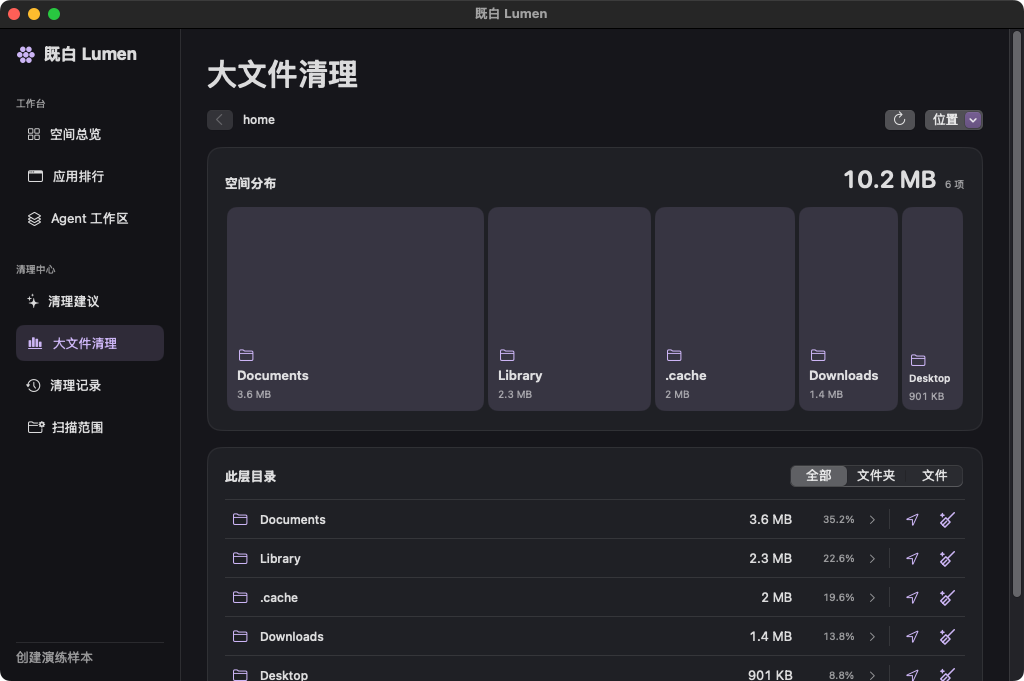
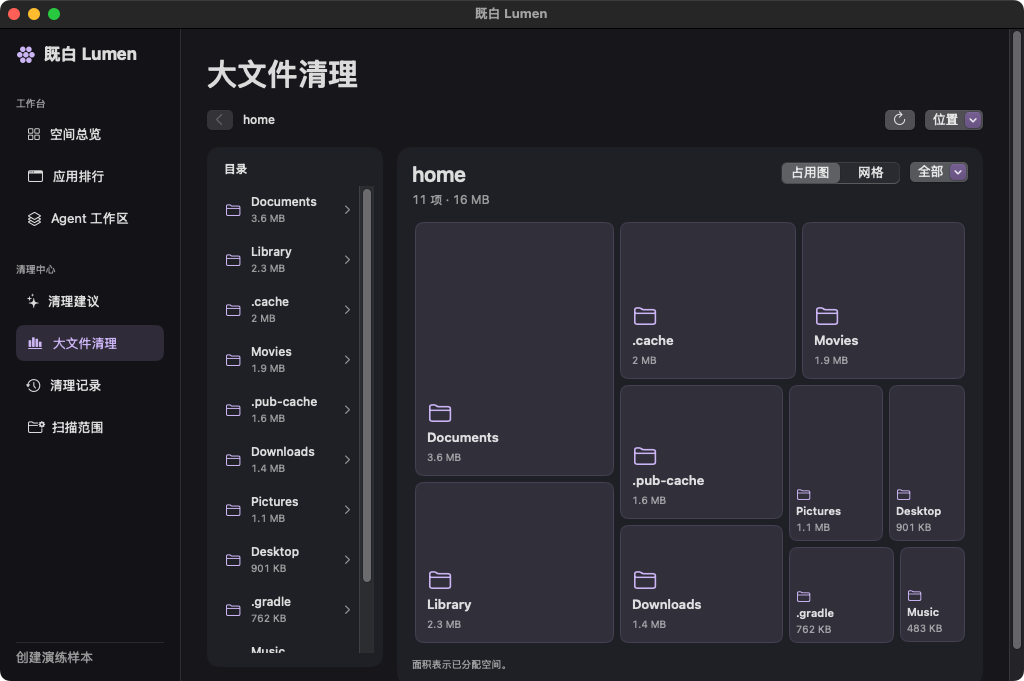
Update storage browser preview and download link [skip ci]

diff --git a/README.md b/README.md
@@ -4,7 +4,7 @@
 
 *Agents build. Lumen tidies up.*
 
-面向 macOS 的本地磁盘清理器与 Agent 工作区管理工具。既白把应用占用、项目归属、共享素材和清理依据放在一起，帮你判断清掉一个文件会影响什么。[下载 Apple Silicon 开发预览版](https://github.com/Moosphan/lumen/releases/tag/v0.1.0-dev.4)
+面向 macOS 的本地磁盘清理器与 Agent 工作区管理工具。既白把应用占用、项目归属、共享素材和清理依据放在一起，帮你判断清掉一个文件会影响什么。[下载 Apple Silicon 开发预览版](https://github.com/Moosphan/lumen/releases/tag/v0.1.0-dev.5)
 
 ![既白原生 Mac 应用的空间总览，展示隔离演练的真实扫描结果](设计稿/Lumen-overview.png)
 
